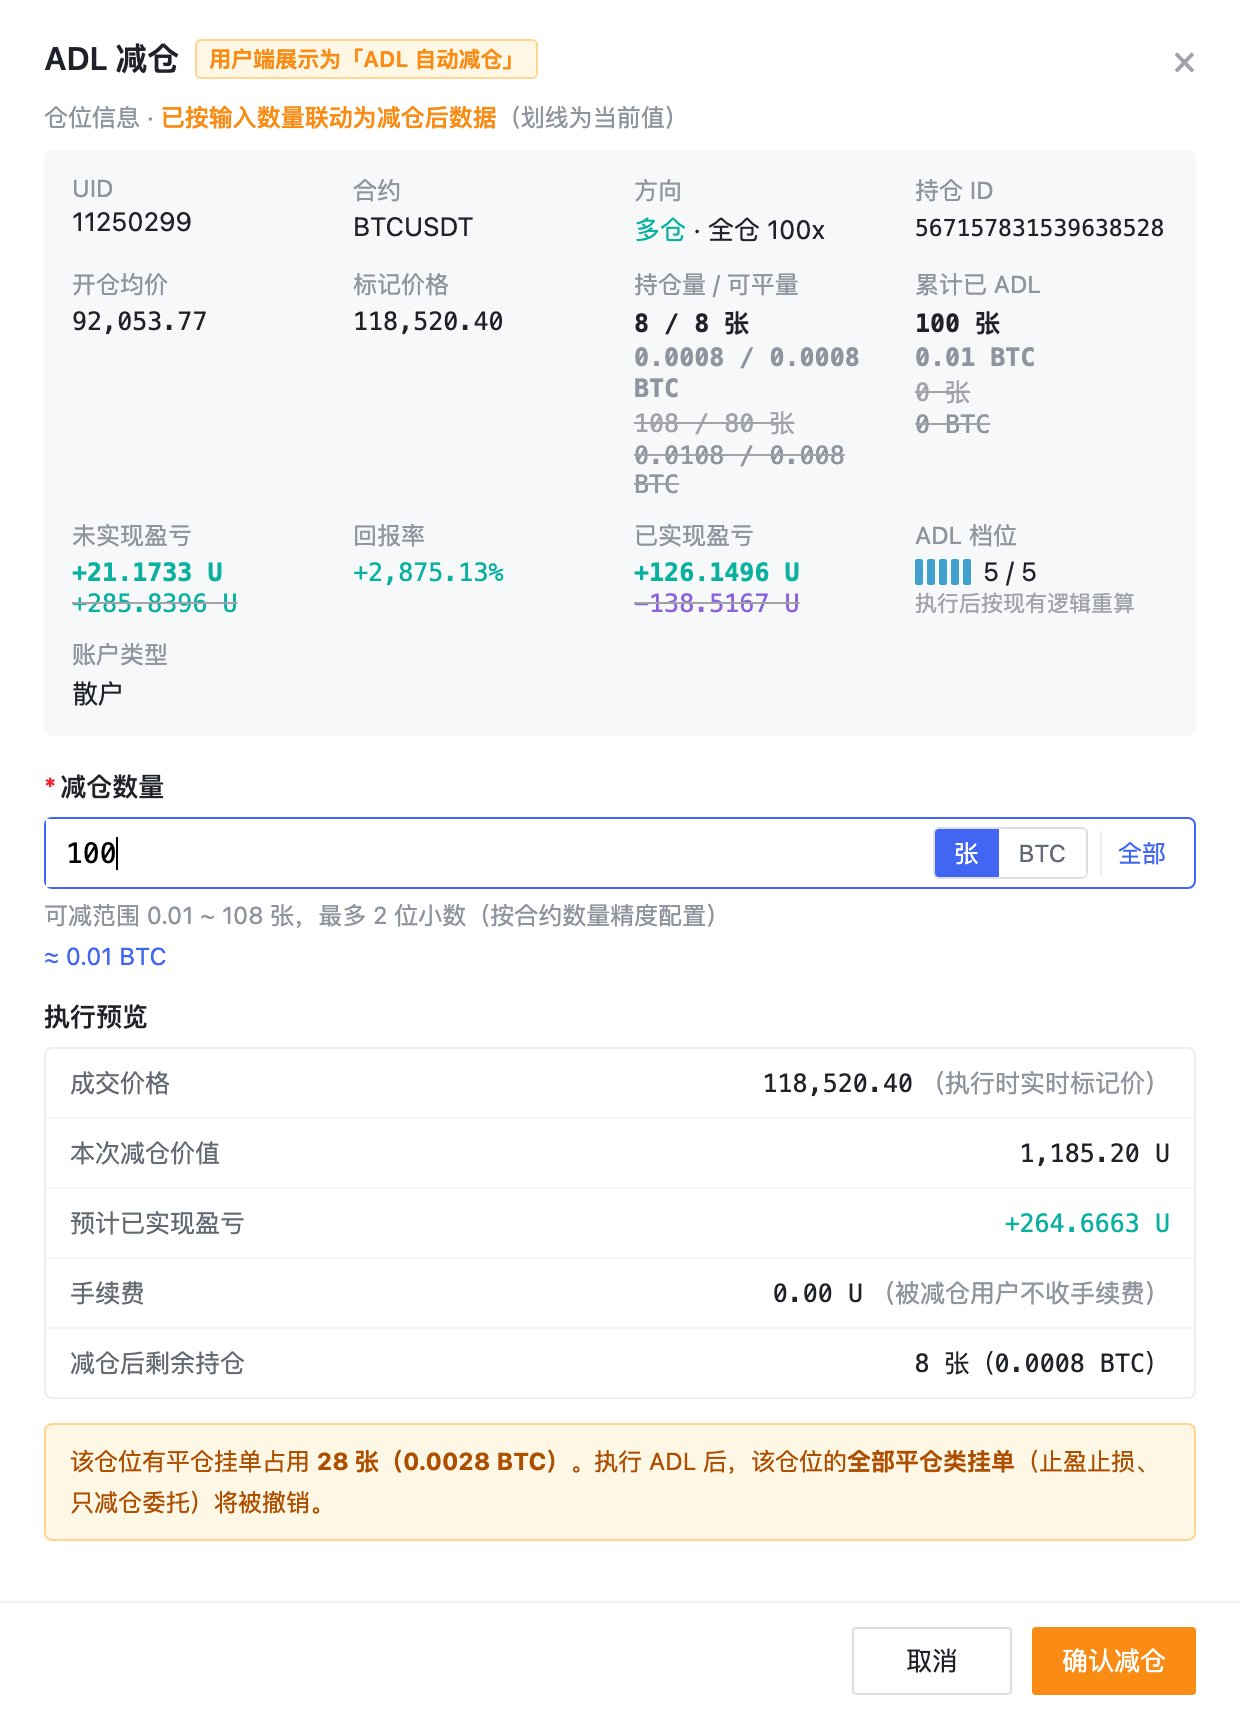
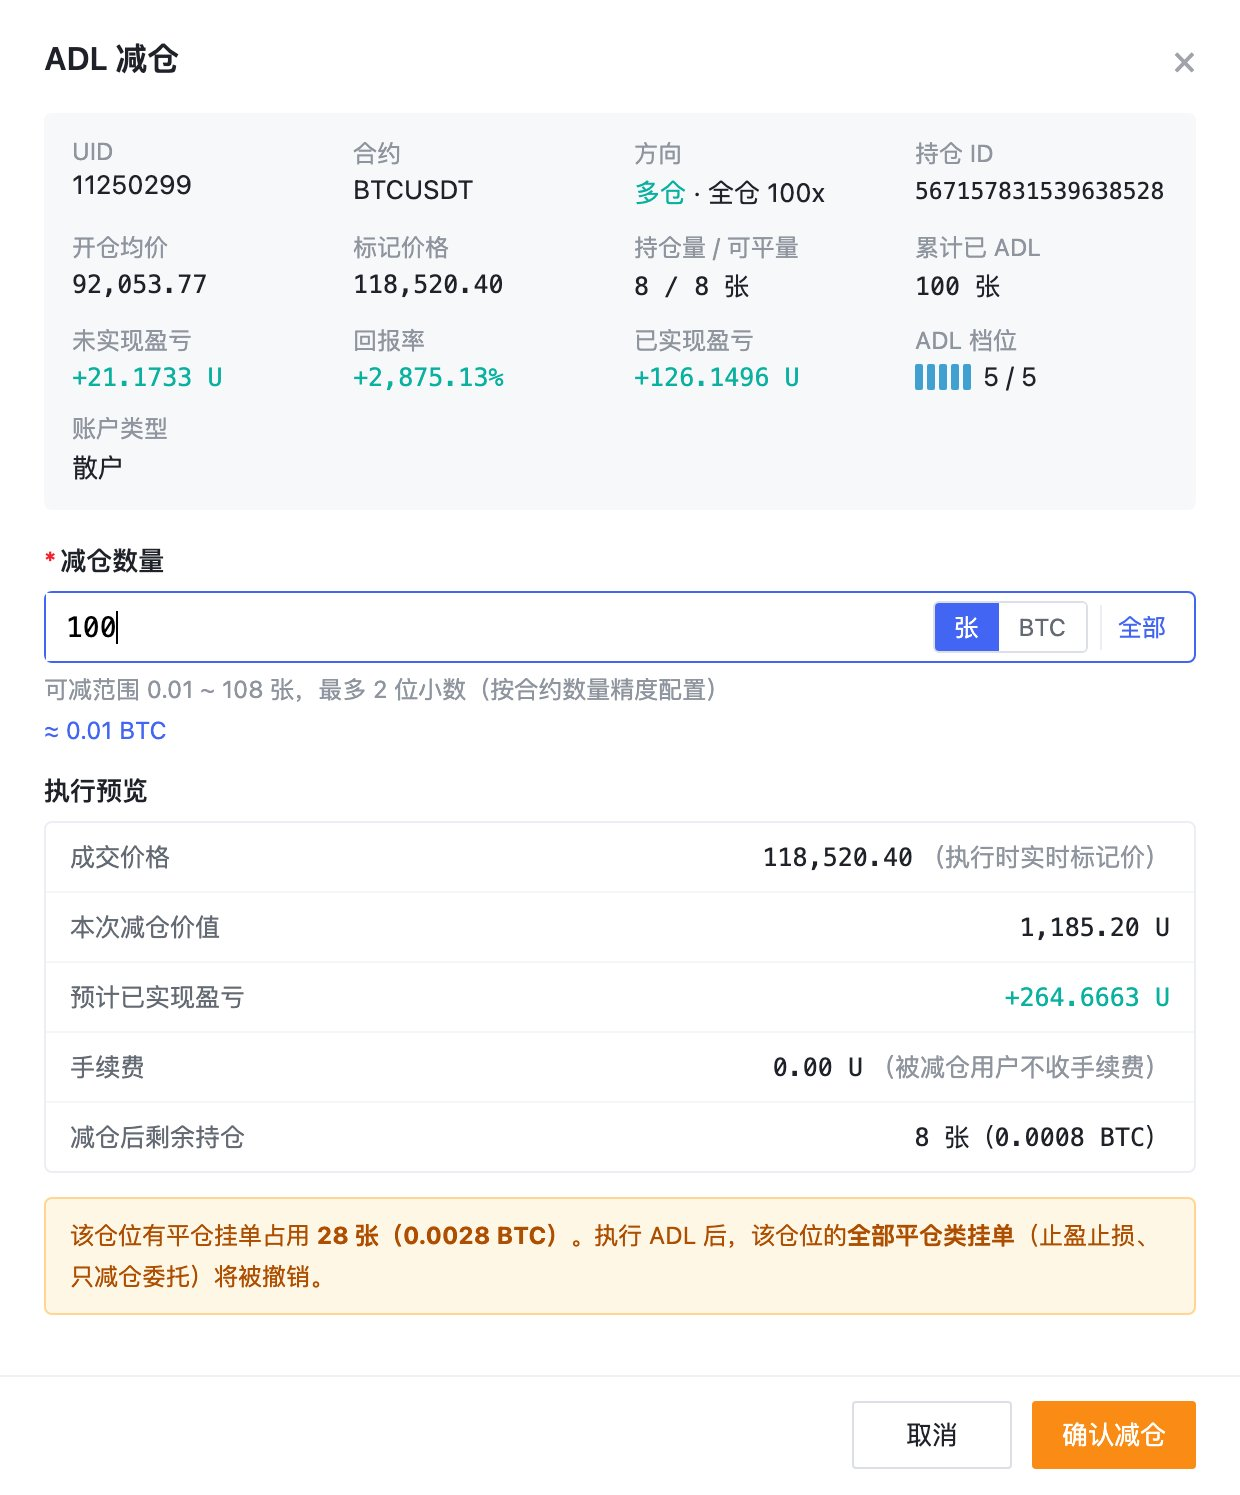
docs: 中台ADL减仓 PRD V1.3——同步弹窗调整(去标签/提示行、不划线、单位跟随列表),重截图2/图4

diff --git a/中台ADL减仓_PRD_V1.0.html b/中台ADL减仓_PRD_V1.0.html
@@ -74,7 +74,7 @@
 
 <div class="cover">
   <h1>中台 ADL 减仓 PRD</h1>
-  <div class="ver">版本 V1.2 · 2026-10-11 · 修订人 Rhys</div>
+  <div class="ver">版本 V1.3 · 2026-10-11 · 修订人 Rhys</div>
   <div class="sub">需求类型：0→1 · 规模 L ｜ 配套原型：<a href="https://forclaudecode.vercel.app/1009-中台ADL减仓.html">1009-中台ADL减仓.html</a> ｜ 规则来源：规则台账_ADL减仓 v1.0（R01–R19）</div>
 </div>
 
@@ -261,12 +261,12 @@ flowchart LR
 </table>
 
 <h4>3.3.2 中台 · ADL 减仓弹窗</h4>
-<figure class="fig narrow"><img src="中台ADL减仓_PRD_assets/02_adl_modal.jpg" alt="图 2　ADL 减仓弹窗（输入 100 张后，上方仓位信息联动为减仓后数据；该仓位有平仓挂单，显示撤单提示）" loading="lazy"><figcaption>图 2　ADL 减仓弹窗（输入 100 张后，上方仓位信息联动为减仓后数据；该仓位有平仓挂单，显示撤单提示）</figcaption></figure>
+<figure class="fig narrow"><img src="中台ADL减仓_PRD_assets/02_adl_modal.jpg" alt="图 2　ADL 减仓弹窗（输入 100 张后，上方仓位信息直接显示减仓后数据；该仓位有平仓挂单，显示撤单提示）" loading="lazy"><figcaption>图 2　ADL 减仓弹窗（输入 100 张后，上方仓位信息直接显示减仓后数据；该仓位有平仓挂单，显示撤单提示）</figcaption></figure>
 <table>
   <tr><th>区域</th><th>元素</th><th>说明</th></tr>
-  <tr><td>标题</td><td>「ADL 减仓」+ 标签「用户端展示为『ADL 自动减仓』」</td><td>提醒运营该操作对用户的呈现方式。</td></tr>
-  <tr><td rowspan="2">仓位信息（只读）</td><td>UID、合约、方向（多 / 空 · 保证金模式 · 杠杆）、持仓 ID、开仓均价、标记价格、持仓量 / 可平量（张和币两行）、累计已 ADL、未实现盈亏、回报率、已实现盈亏、ADL 档位、账户类型</td><td>未输入数量时显示当前值，标题为「仓位信息（当前）」。</td></tr>
-  <tr><td>输入数量后联动</td><td>输入合法数量后，以下字段实时联动为<strong>减仓后</strong>的数据，下方附划线的当前值，标题提示「已按输入数量联动为减仓后数据」：持仓量 / 可平量（平仓挂单全部撤销，可平量 = 剩余持仓量；全部减完显示「0（全部平掉）」）、累计已 ADL、未实现盈亏（按剩余仓位）、已实现盈亏（加上本次预计已实现盈亏）。回报率不变；ADL 档位显示当前格数并注明「执行后按现有逻辑重算」。数量清空或不合法时恢复当前值。</td></tr>
+  <tr><td>标题</td><td>「ADL 减仓」</td><td>—</td></tr>
+  <tr><td rowspan="2">仓位信息（只读）</td><td>UID、合约、方向（多 / 空 · 保证金模式 · 杠杆）、持仓 ID、开仓均价、标记价格、持仓量 / 可平量、累计已 ADL（这两项按列表当前所选单位显示，张或币）、未实现盈亏、回报率、已实现盈亏、ADL 档位、账户类型</td><td>未输入数量时显示当前值。</td></tr>
+  <tr><td>输入数量后联动</td><td>输入合法数量后，以下字段<strong>直接显示减仓后的数值</strong>（不保留原值、不做划线）：持仓量 / 可平量（平仓挂单全部撤销，可平量 = 剩余持仓量；全部减完显示「0 / 0」）、累计已 ADL、未实现盈亏（按剩余仓位）、已实现盈亏（加上本次预计已实现盈亏）。回报率、ADL 档位显示当前值。数量清空或不合法时恢复当前值。</td></tr>
   <tr><td rowspan="5">减仓数量</td><td>输入框（必填）</td><td>可输入整数或小数。</td></tr>
   <tr><td>单位切换「张 | 币」</td><td>币按钮显示合约币种（如 BTC）。默认跟随列表当前单位。切换时，已输入的合法数值自动换算（如 50.5 张 ⇄ 0.00505 BTC）。</td></tr>
   <tr><td>「全部」</td><td>按当前单位填入全部持仓量。</td></tr>
@@ -433,6 +433,7 @@ flowchart LR
   <tr><td>V1.0</td><td>2026-10-09</td><td>初稿（评审前）</td><td>基于原型与规则台账 v1.0（R01–R19）产出完整 PRD</td><td>中台 ADL 减仓需求立项，准备评审会</td></tr>
   <tr><td>V1.1</td><td>2026-10-09</td><td>初稿（评审前）</td><td>3.3 全部截图占位替换为原型截图（图 1–14）；文档主题色改为淡紫色</td><td>PM 要求补齐原型截图、调整配色</td></tr>
   <tr><td>V1.2</td><td>2026-10-11</td><td>初稿（评审前）</td><td>涨跌色改为中台 / 主站绿涨紫跌，ADL 指示灯改为主站色；减仓弹窗去掉「对手方」字段；输入数量后上方仓位信息联动为减仓后数据；截图全部重截</td><td>业务方（Yuushi）对弹窗的反馈</td></tr>
+  <tr><td>V1.3</td><td>2026-10-11</td><td>初稿（评审前）</td><td>减仓弹窗删除标题标签与联动提示行；输入数量后直接显示减仓后数值，不再划线展示原值；持仓量 / 可平量、累计已 ADL 按列表所选单位显示；图 2、图 4 重截</td><td>PM 对弹窗的反馈</td></tr>
 </table>
 
 </div></div>
